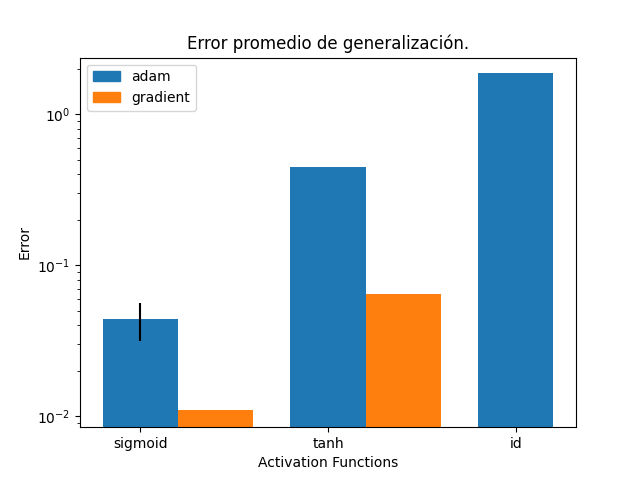
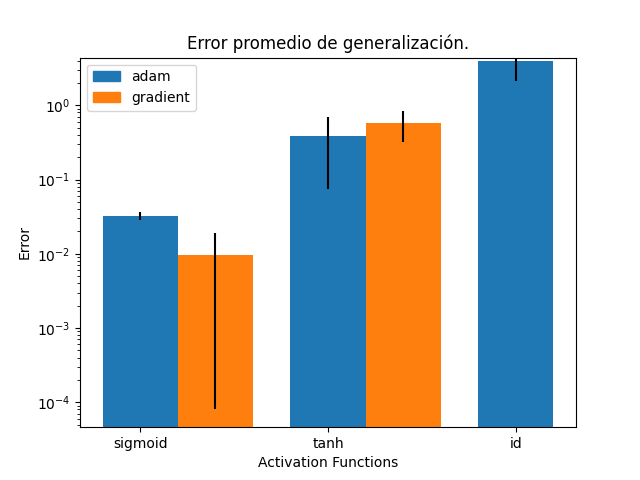
fix: seed problem

diff --git a/tp3/multilayer/utils.py b/tp3/multilayer/utils.py
@@ -14,12 +14,13 @@ def create_mean_and_std_matrix(perceptron_by_layer):
 # create an initial random weight  matrix
 def create_weights_by_layer(perceptron_by_layer):
     weights_by_layer = []
-
+    random.seed(100541)
+    np.random.seed(100541)
     for index in range(len(perceptron_by_layer) - 1):
-        random.seed(100541)
-        np.random.seed(100541)
         weights = np.random.normal(0, 0.5, size=(perceptron_by_layer[index + 1], perceptron_by_layer[index]))
         weights_by_layer.append(weights)
+    random.seed()
+    np.random.seed()
     return weights_by_layer
 
 

diff --git a/tp3/ej2/ej2.py b/tp3/ej2/ej2.py
@@ -86,7 +86,7 @@ if __name__ == '__main__':
         for update in update_methods:
             g_err_counter = []
             t_err_counter = []
-            for i in range(10):
+            for i in range(2):
                 if activation == "id" and update == "gradient_descent":
                     break
                 if rescale:
